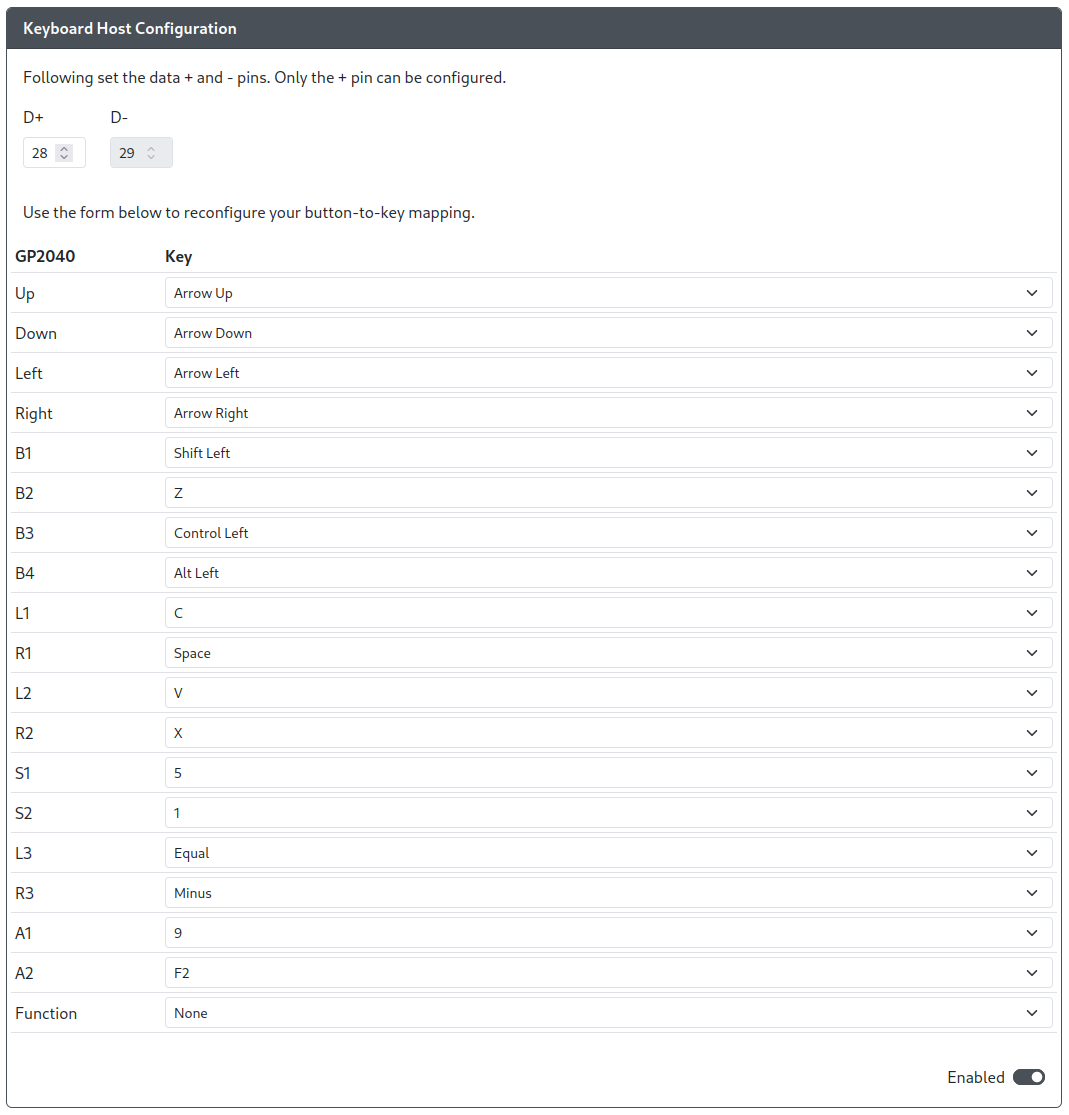
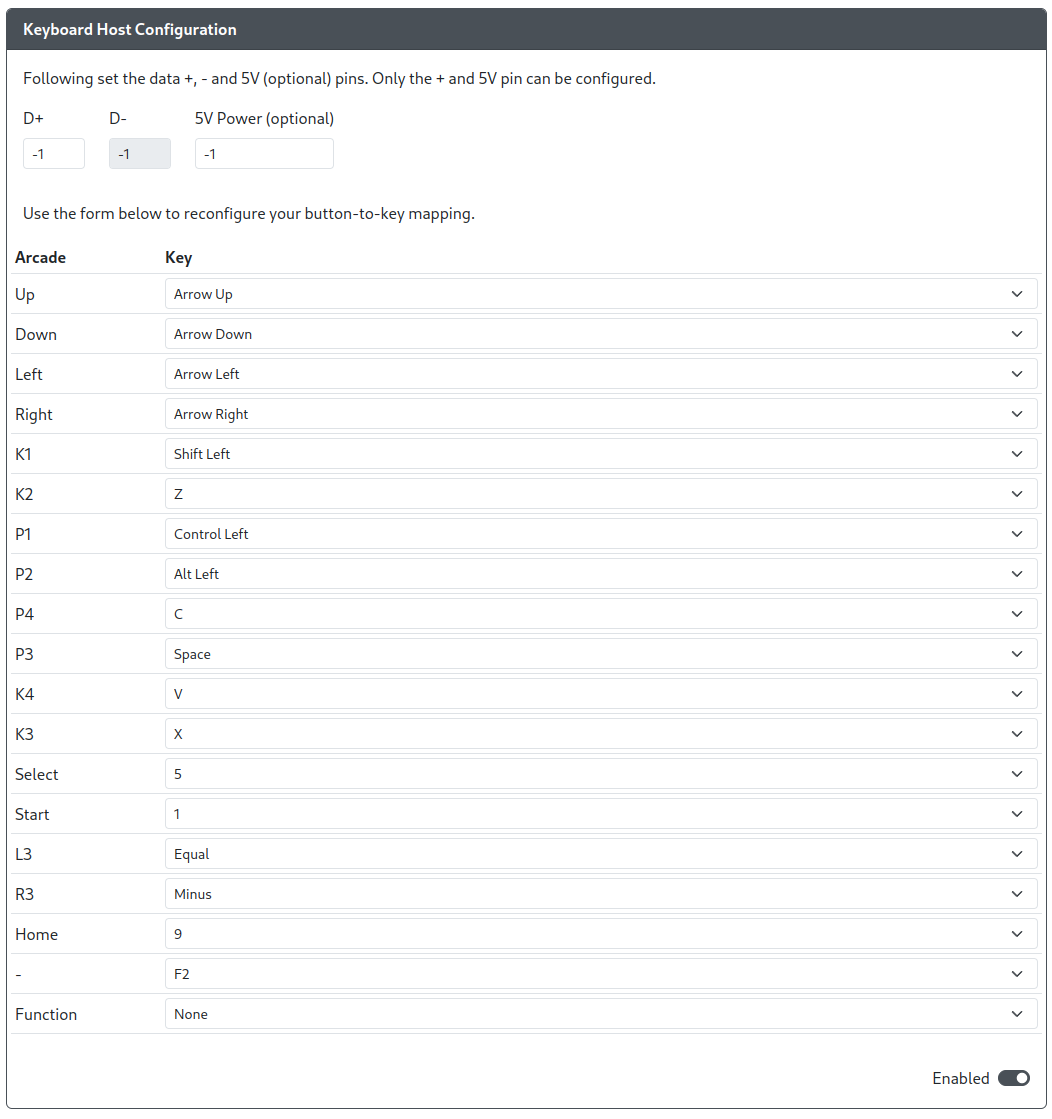
Update Keyboard Host Addon documentation (#469)

diff --git a/docs/web-configurator.md b/docs/web-configurator.md
@@ -358,6 +358,7 @@ Supported controller types and their mapping is as follows:
 
 * `D+` - The GPIO Pin used to carry Data Positive between the USB Host Port and RP2040
 * `D-` - The GPIO Pin used to carry Data Positive between the USB Host Port and RP2040. This cannot be set and will be automatically determined from `D+`.
+* `5V Power (optional)` - The GPIO Pin used to enable 5V power to the host port on the board. This is not applicable to all boards.
 
 #### Example Wiring Diagram
 
@@ -365,7 +366,7 @@ Supported controller types and their mapping is as follows:
 
 * `VCC` - Connects to 5V power (Example: VBUS on the Raspberry Pi Pico)
 * `D+` - Connects to the `D+` GPIO Pin above, set in the Web Configurator. (Example: GPIO0 on the Raspberry Pi Pico)
-* `D+` - Connects to the `D-` GPIO Pin above, set in the Web Configurator. (Example: GPIO1 on the Raspberry Pi Pico)
+* `D-` - Connects to the `D-` GPIO Pin above, set in the Web Configurator. (Example: GPIO1 on the Raspberry Pi Pico)
 * `GND` - Connects to a ground pin, any `GND` pin will work. (Example: VBUS on the Raspberry Pi Pico)
 
 ## Data Backup and Restoration
